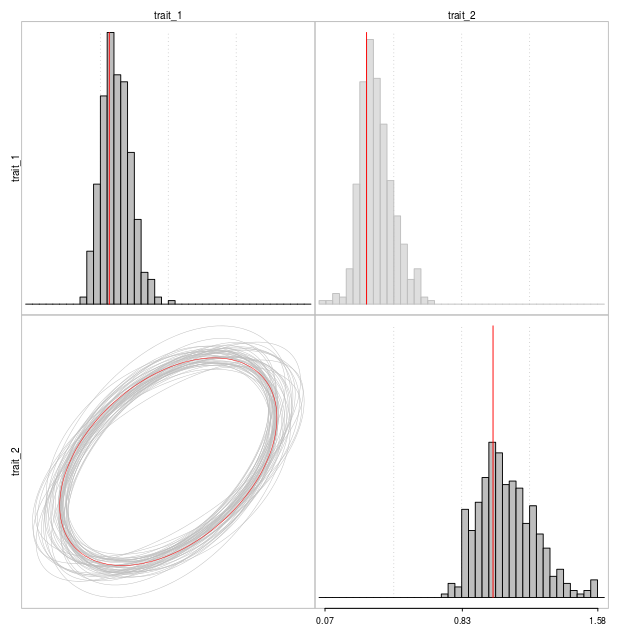
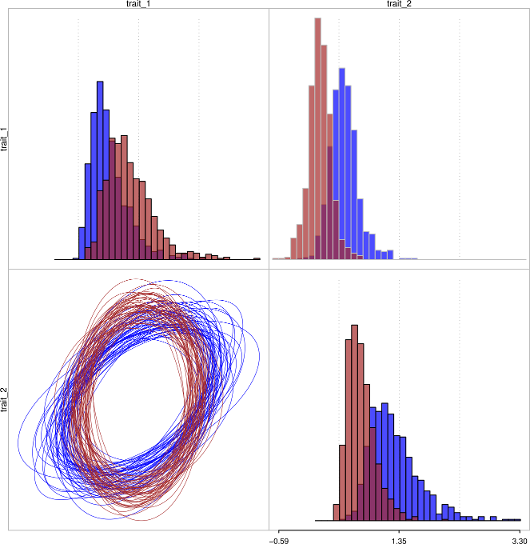
Updates the presentation file for the package.

diff --git a/README.md b/README.md
@@ -17,9 +17,56 @@ install_github("Caetanods/ratematrix")
 
 Short tutorial to show the usage of the package:
 ```
-##
+## Load packages.
+library( ratematrix )
+library( phytools )
+
+## Simulate a phylogenetic tree.
+phy <- pbtree(n=50)
+
+## Create two regimes and fit the regimes to the phylogeny using stochastic mapping.
+state <- rep(c("marine","terrestrial"), each=25)
+names(state) <- phy$tip.label
+phy.map <- make.simmap(tree=phy, x=state, model="ARD")
+cols <- setNames(c("blue","brown"), c("marine","terrestrial"))
+plotSimmap(phy.map, colors=cols)
+
+## Simulate two traits. The traits are more correlated in the marine species.
+sea.rate <- rbind( c(1,0.5), c(0.5,1) )
+land.rate <- rbind( c(1,0.1), c(0.1,1) )
+rates <- list(sea.rate, land.rate)
+names(rates) <- c("marine","terrestrial")
+data <- sim.corrs(tree=phy.map, vcv=rates, anc=c(2,5) )
+
+## Set up and run a MCMC chain.
+## First check an estimate of the time the MCMC chain will take to run:
+estimateTimeMCMC(data=data, phy=phy.map, gen=100000)
+
+## Note that this step will write files to the current working directory.
+## You can change the path to another directory using the 'dir' option.
+## If 'dir' is NULL, files will be written to the current directory.
+handle <- ratematrixMCMC(data=data, phy=phy.map, gen=100000, dir=NULL)
+
+## Now we can load the MCMC samples and make some plots:
+posterior <- readMCMC(handle, burn=0.25, thin=100)
+logAnalizer(handle, burn=0.25, thin=100)
+plotRatematrix(posterior, colors=c("blue","brown"), , alphaDiag=0.7, alphaOff=0.7)
+plotRootValue(posterior)
+
+## A quick check of how good the posterior is compared to the true values:
+plotRatematrix(posterior, colors=c("blue","brown"), alphaDiag=0.7, alphaOff=0.7, point.matrix=rates, point.color=c("green","green"), point.wd=3)
 ```
-
-![alt text](example.png)
-
-Figure shows the posterior distribution of rates in the diagonal and posterior distribution of covariated evolution in the upper right. Lower left plot show an ellipse that describes the covariation structure. The vertical red lines and the red ellipse lines are the true values used to simulated data.
+\
+\
+\
+![ ](trace_plot.png)
+\
+\
+Figure shows the trace plot for the log-likelihood of the model and the acceptance ratio. Note that first few generations of the acceptance ratio trace plot suffer from a smaller sample size and, as a result, behave in a strange manner.
+\
+\
+\
+![ ](example.png)
+\
+\
+Figure shows the posterior distribution of rates of evolution for each trait in the diagonal histograms. Upper-diagonal histograms are the posterior distribution for the pairwise covariated evolution among traits. Lower-diagonal plots show ellipses with the bivariate distribution among traits.
